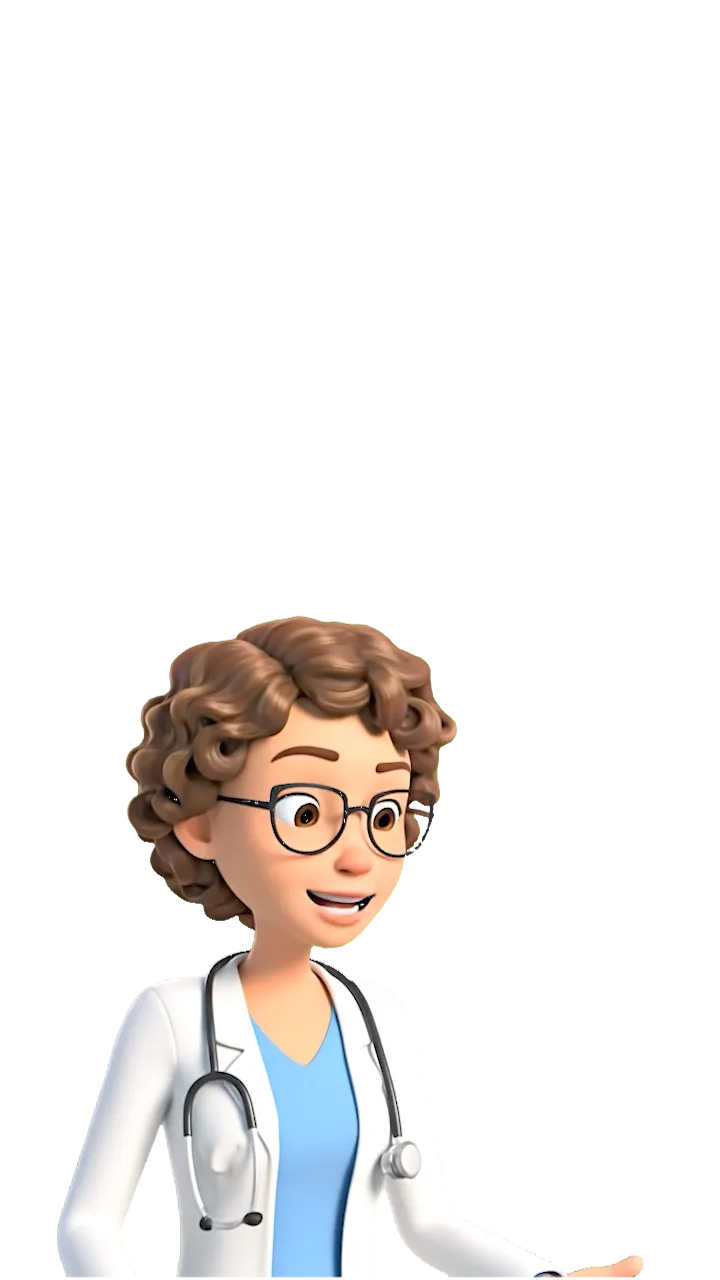
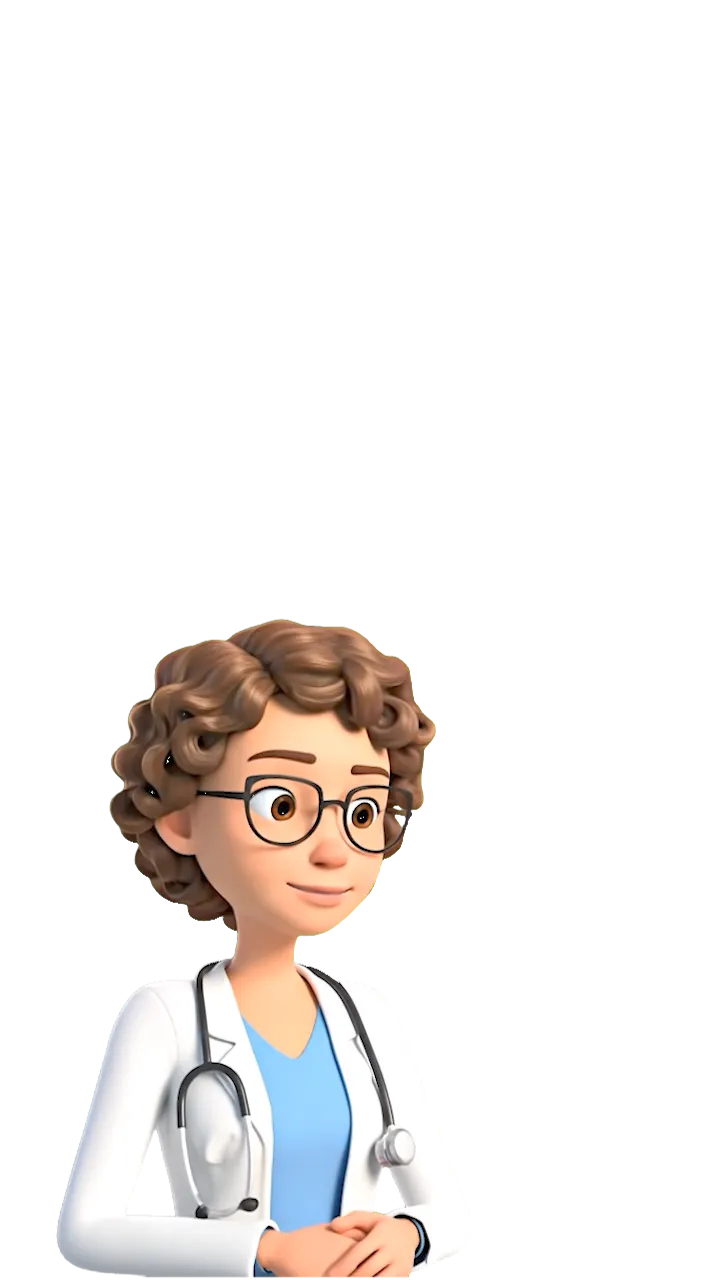
animation fix for audio

Changed region(s): [[0.0611, 0.4688, 0.7028, 1.0], [0.7333, 0.9688, 0.8861, 1.0]]

diff --git a/src/components/pages/funzo/ScratchCard.jsx b/src/components/pages/funzo/ScratchCard.jsx
@@ -205,7 +205,7 @@ function ScratchCard({ projectData, projectId, ui }) {
         audioFile: `/game/scratch-card/${projectId}/sounds/doctor2.m4a`,
       },
     ],
-     "scratch-card-ghana": [
+    "scratch-card-ghana": [
       {
         id: 1,
         sender: "patient",
@@ -322,16 +322,20 @@ function ScratchCard({ projectData, projectId, ui }) {
 
         setBgTexture(bgTexture);
 
-        const scratchImg = await Assets.load("/game/scratch-card/scratch-card.png");
+        const scratchImg = await Assets.load(
+          "/game/scratch-card/scratch-card.png",
+        );
         setScratchImage(scratchImg);
 
         const doctorUrls = Array.from(
           { length: 52 },
-          (_, i) => `/game/scratch-card/${projectId}/doctor/doctor${String(i).padStart(2, "0")}.webp`,
+          (_, i) =>
+            `/game/scratch-card/${projectId}/doctor/doctor${String(i).padStart(2, "0")}.webp`,
         );
         const patientUrls = Array.from(
           { length: 52 },
-          (_, i) => `/game/scratch-card/${projectId}/patient/patient${String(i).padStart(2, "0")}.webp`,
+          (_, i) =>
+            `/game/scratch-card/${projectId}/patient/patient${String(i).padStart(2, "0")}.webp`,
         );
 
         const [doctorLoaded, patientLoaded] = await Promise.all([
@@ -363,33 +367,46 @@ function ScratchCard({ projectData, projectId, ui }) {
     loadAssets();
   }, []);
 
+  const [maxAnimationLoops] = useState(5);
+
   const playConversationSequence = useCallback(async () => {
     const conversations = conversationMap[projectData?.project_hash] || [];
 
-    if (!conversations.length) {
-      console.log("No conversations found");
-      return;
-    }
+    if (!conversations.length) return;
 
     await new Promise((resolve) => setTimeout(resolve, 1000));
+
+    const timeoutIds = [];
 
     for (let i = 0; i < conversations.length; i++) {
       const conv = conversations[i];
       setMessages((prev) => [conv]);
 
       const audio = audioRefs.current[i];
+      let animationLoops = 0;
+
+      timeoutIds.forEach((id) => clearTimeout(id));
+      timeoutIds.length = 0;
 
       if (conv.sender === "patient") {
         setIsPatientPlaying(true);
+        setIsDoctorPlaying(false);
         if (patientRef.current) {
           patientRef.current.gotoAndStop(0);
           patientRef.current.gotoAndPlay(0);
         }
+        if (doctorRef.current) {
+          doctorRef.current.gotoAndStop(0);
+        }
       } else {
         setIsDoctorPlaying(true);
+        setIsPatientPlaying(false);
         if (doctorRef.current) {
           doctorRef.current.gotoAndStop(0);
           doctorRef.current.gotoAndPlay(0);
+        }
+        if (patientRef.current) {
+          patientRef.current.gotoAndStop(0);
         }
       }
 
@@ -397,34 +414,56 @@ function ScratchCard({ projectData, projectId, ui }) {
         try {
           audio.currentTime = 0;
           await audio.play();
+
+          const audioDuration = await getAudioDuration(conv.audioFile);
+
+          const restartAnimationIfNeeded = () => {
+            if (animationLoops < maxAnimationLoops) {
+              animationLoops++;
+              if (conv.sender === "patient" && patientRef.current) {
+                patientRef.current.gotoAndPlay(0);
+              } else if (doctorRef.current) {
+                doctorRef.current.gotoAndPlay(0);
+              }
+
+              if (animationLoops < maxAnimationLoops) {
+                const id = setTimeout(restartAnimationIfNeeded, 2600);
+                timeoutIds.push(id);
+              }
+            }
+          };
+
+          if (audioDuration > 2600) {
+            const id = setTimeout(restartAnimationIfNeeded, 2600);
+            timeoutIds.push(id);
+          }
+
+          await new Promise((resolve) => setTimeout(resolve, audioDuration));
         } catch (err) {
           console.log("Audio play failed:", err);
+          await new Promise((resolve) => setTimeout(resolve, 2600));
         }
+      } else {
+        await new Promise((resolve) => setTimeout(resolve, 2600));
       }
-
-      const duration = await getAudioDuration(conv.audioFile);
-      await new Promise((res) => setTimeout(res, duration));
 
       if (conv.sender === "patient") {
         setIsPatientPlaying(false);
         if (patientRef.current) patientRef.current.gotoAndStop(0);
       } else {
-        if (conv.id === 4) {
-          setIsDoctorPlaying(false);
-          if (doctorRef.current) doctorRef.current.gotoAndStop(0);
-        } else {
-          setIsDoctorPlaying(true);
-        }
+        setIsDoctorPlaying(false);
+        if (doctorRef.current) doctorRef.current.gotoAndStop(0);
       }
 
-      if (audio) audio.pause();
+      timeoutIds.forEach((id) => clearTimeout(id));
+      timeoutIds.length = 0;
 
       await new Promise((res) => setTimeout(res, 500));
     }
 
     setConversationComplete(true);
     setTimeout(() => setShowScratchCard(true), 1000);
-  }, [projectData?.project_hash]);
+  }, [projectData?.project_hash, maxAnimationLoops]);
 
   useEffect(() => {
     if (
@@ -713,15 +752,17 @@ function ScratchCard({ projectData, projectId, ui }) {
                 ref={patientRef}
                 textures={patientFrames}
                 x={
-                  (projectId === "scratch-card-zambia" || projectId === "scratch-card-ghana" )
-                    ? canvasDimensions.width * 0.17 
-                    : canvasDimensions.width * 0.32 
+                  projectId === "scratch-card-zambia" ||
+                  projectId === "scratch-card-ghana"
+                    ? canvasDimensions.width * 0.17
+                    : canvasDimensions.width * 0.32
                 }
                 y={canvasDimensions.height * 1.0}
                 anchor={{ x: 0.5, y: 1 }}
                 scale={{
                   x:
-                    (patientScaleConfig[breakpoint] ?? patientScaleConfig.md) * -1,
+                    (patientScaleConfig[breakpoint] ?? patientScaleConfig.md) *
+                    -1,
                   y: patientScaleConfig[breakpoint] ?? patientScaleConfig.md,
                 }}
                 animationSpeed={0.2}
@@ -764,17 +805,16 @@ function ScratchCard({ projectData, projectId, ui }) {
               }`}
             >
               <img
-                  src={
-                    msg.sender === "patient"
-                      ? `/game/scratch-card/${projectId}/chat-bubble/patient.webp`
-                      : msg.id === 2
-                        ? `/game/scratch-card/${projectId}/chat-bubble/doctor-1.webp` 
-                        : `/game/scratch-card/${projectId}/chat-bubble/doctor-2.webp`
-                  }
-                  alt={`${msg.sender} bubble`}
-                  className="w-full h-auto"
-                />
-
+                src={
+                  msg.sender === "patient"
+                    ? `/game/scratch-card/${projectId}/chat-bubble/patient.webp`
+                    : msg.id === 2
+                      ? `/game/scratch-card/${projectId}/chat-bubble/doctor-1.webp`
+                      : `/game/scratch-card/${projectId}/chat-bubble/doctor-2.webp`
+                }
+                alt={`${msg.sender} bubble`}
+                className="w-full h-auto"
+              />
             </div>
           ))}
           <div ref={chatEndRef} />
@@ -896,11 +936,13 @@ export const preloadAnimationAssets = async () => {
 
   const doctorUrls = Array.from(
     { length: 52 },
-    (_, i) => `/game/scratch-card/${projectId}/doctor/doctor${String(i).padStart(2, "0")}.webp`,
+    (_, i) =>
+      `/game/scratch-card/${projectId}/doctor/doctor${String(i).padStart(2, "0")}.webp`,
   );
   const patientUrls = Array.from(
     { length: 52 },
-    (_, i) => `/game/scratch-card/${projectId}/patient/patient${String(i).padStart(2, "0")}.webp`,
+    (_, i) =>
+      `/game/scratch-card/${projectId}/patient/patient${String(i).padStart(2, "0")}.webp`,
   );
 
   try {

diff --git a/next.config.js b/next.config.js
@@ -30,8 +30,8 @@ const nextConfig = {
     return config;
   },
   reactStrictMode: false,
-  // output: "export",
-  // distDir: "dist",
+  output: "export",
+  distDir: "dist",
   images: {
     unoptimized: true,
     remotePatterns: [
